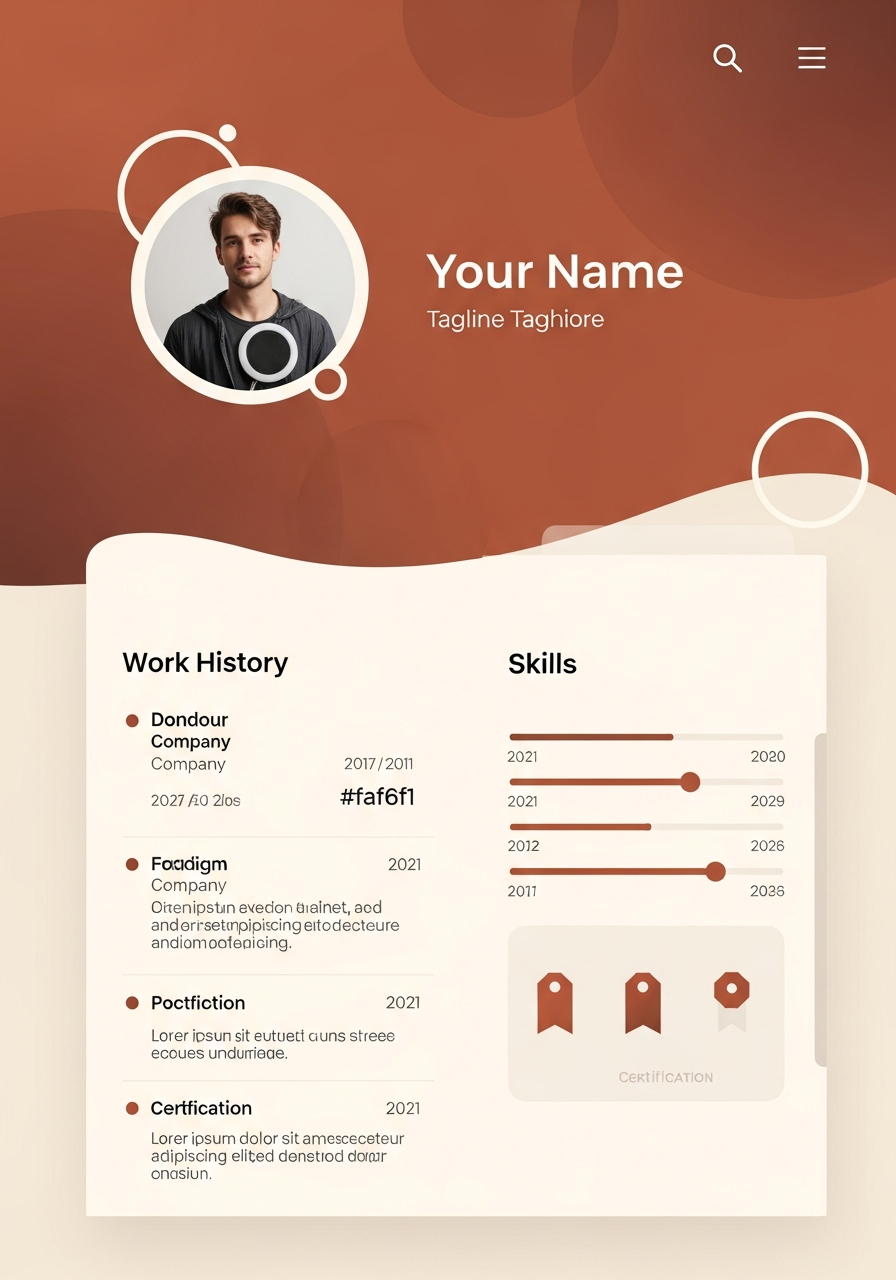
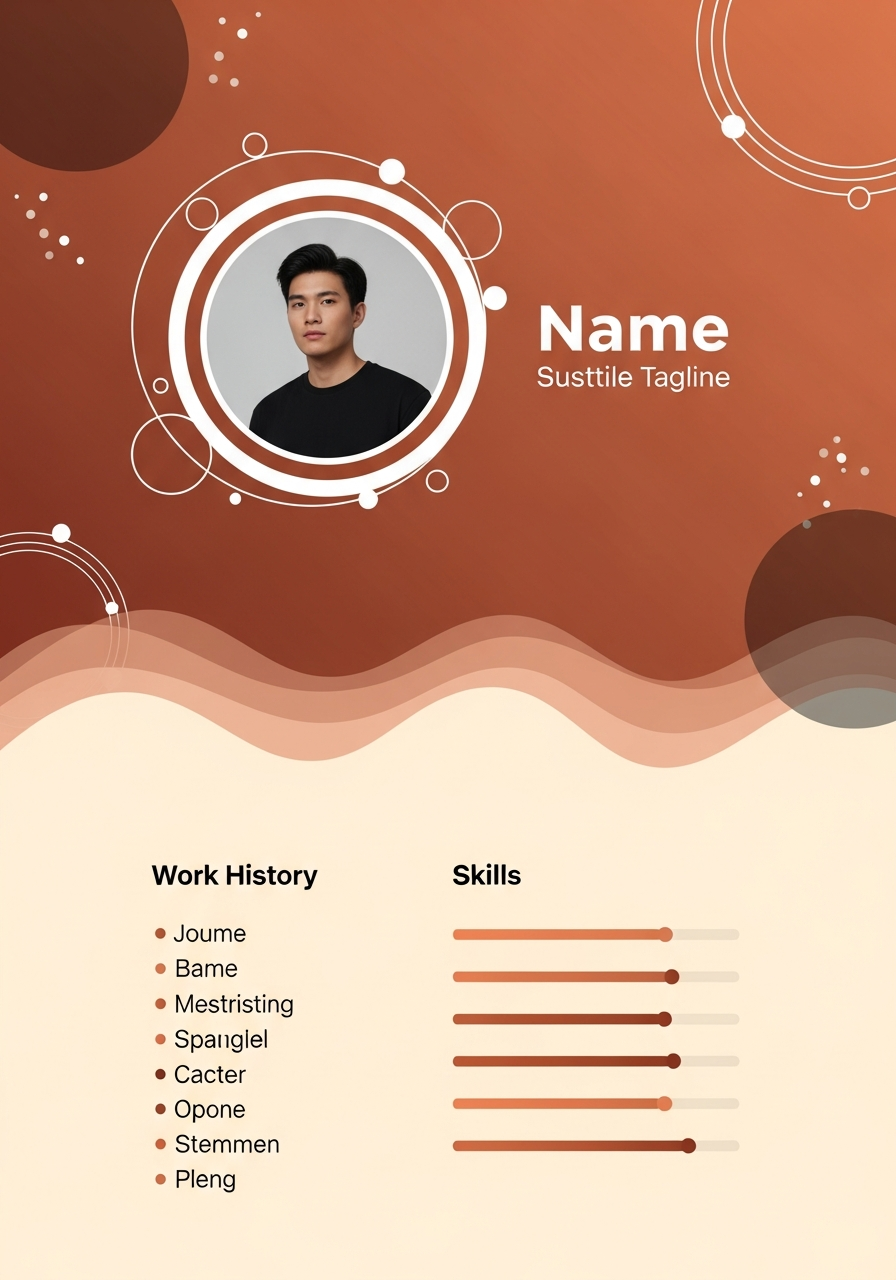
Update professional template design to match screenshot with decorative elements
Refactor CSS for the professional template to include decorative circles, a wavy SVG transition, and adjust hero section styling to match the provided screenshot.

Replit-Commit-Author: Agent
Replit-Commit-Session-Id: 9d698cb2-94c7-4a1a-83f7-568c51fffbb6
Replit-Commit-Checkpoint-Type: full_checkpoint
Replit-Commit-Event-Id: a59b3efe-7ccf-474e-89bb-5ce2eedd76fb
Replit-Commit-Screenshot-Url: https://storage.googleapis.com/screenshot-production-us-central1/1f5fe7d4-1cdf-4b6f-b09e-05f67c314425/9d698cb2-94c7-4a1a-83f7-568c51fffbb6/044WFnH
Replit-Helium-Checkpoint-Created: true

diff --git a/portfolio_app/templates/template-previews/professional.html b/portfolio_app/templates/template-previews/professional.html
@@ -45,32 +45,68 @@
         }
 
         .hero {
-            background: linear-gradient(160deg, #b5563e 0%, #c46a4a 40%, #a84a32 100%);
-            padding: 100px 0 80px;
+            background: linear-gradient(160deg, #b5563e 0%, #c46a4a 35%, #a84a32 70%, #9e4430 100%);
+            min-height: 480px;
             position: relative;
             overflow: hidden;
+            display: flex;
+            align-items: center;
+            padding: 100px 0 140px;
         }
 
-        .hero::before {
-            content: '';
+        .hero-circle-1 {
             position: absolute;
-            bottom: -80px;
-            right: -40px;
-            width: 400px;
-            height: 400px;
+            top: -60px;
+            left: 8%;
+            width: 280px;
+            height: 280px;
             background: rgba(255,255,255,0.06);
             border-radius: 50%;
         }
 
-        .hero::after {
-            content: '';
+        .hero-circle-2 {
             position: absolute;
-            top: -60px;
-            left: 10%;
-            width: 260px;
-            height: 260px;
+            bottom: -100px;
+            right: -50px;
+            width: 350px;
+            height: 350px;
             background: rgba(0,0,0,0.06);
             border-radius: 50%;
+        }
+
+        .hero-circle-3 {
+            position: absolute;
+            top: 30%;
+            right: 12%;
+            width: 70px;
+            height: 70px;
+            border: 3px solid rgba(255,255,255,0.25);
+            border-radius: 50%;
+        }
+
+        .hero-circle-4 {
+            position: absolute;
+            top: 60%;
+            right: 25%;
+            width: 16px;
+            height: 16px;
+            background: rgba(255,255,255,0.3);
+            border-radius: 50%;
+        }
+
+        .hero-wave {
+            position: absolute;
+            bottom: -2px;
+            left: 0;
+            right: 0;
+            height: 100px;
+            z-index: 2;
+        }
+
+        .hero-wave svg {
+            width: 100%;
+            height: 100%;
+            display: block;
         }
 
         .hero-inner {
@@ -81,7 +117,7 @@
             align-items: center;
             gap: 50px;
             position: relative;
-            z-index: 1;
+            z-index: 3;
         }
 
         .hero-photo-wrap {
@@ -89,13 +125,46 @@
             position: relative;
         }
 
-        .hero-photo-ring {
-            width: 180px;
-            height: 180px;
+        .hero-deco-ring {
+            position: absolute;
+            top: -18px;
+            left: -18px;
+            width: calc(100% + 36px);
+            height: calc(100% + 36px);
+            border: 3px solid rgba(255,255,255,0.3);
             border-radius: 50%;
-            border: 4px solid rgba(255,255,255,0.5);
-            padding: 4px;
-            box-shadow: 0 12px 40px rgba(0,0,0,0.2);
+        }
+
+        .hero-deco-dot-1 {
+            position: absolute;
+            top: -8px;
+            left: 50%;
+            transform: translateX(-50%);
+            width: 14px;
+            height: 14px;
+            background: rgba(255,255,255,0.5);
+            border-radius: 50%;
+        }
+
+        .hero-deco-small-ring {
+            position: absolute;
+            bottom: -5px;
+            left: -10px;
+            width: 40px;
+            height: 40px;
+            border: 3px solid rgba(255,255,255,0.3);
+            border-radius: 50%;
+            background: rgba(0,0,0,0.15);
+        }
+
+        .hero-photo-ring {
+            width: 190px;
+            height: 190px;
+            border-radius: 50%;
+            border: 5px solid rgba(255,255,255,0.45);
+            overflow: hidden;
+            box-shadow: 0 15px 45px rgba(0,0,0,0.25);
+            background: rgba(255,255,255,0.08);
         }
 
         .hero-photo-ring img {
@@ -107,21 +176,21 @@
         }
 
         .hero-placeholder {
-            width: 168px;
-            height: 168px;
+            width: 100%;
+            height: 100%;
             border-radius: 50%;
             background: linear-gradient(135deg, #d4856e, #e8a48e);
             display: flex;
             align-items: center;
             justify-content: center;
-            font-size: 3rem;
+            font-size: 3.2rem;
             font-weight: 800;
             color: #fff;
             letter-spacing: 3px;
         }
 
         .hero-info h1 {
-            font-size: 2.4rem;
+            font-size: 2.6rem;
             font-weight: 800;
             color: #fff;
             margin-bottom: 6px;
@@ -130,7 +199,7 @@
 
         .hero-tagline {
             font-size: 1.05rem;
-            color: rgba(255,255,255,0.7);
+            color: rgba(255,255,255,0.65);
             font-weight: 400;
         }
 
@@ -140,57 +209,27 @@
             padding: 0 40px;
         }
 
-        .about-section {
-            padding: 60px 0;
+        .section {
+            padding: 55px 0;
             border-bottom: 1px solid #ede6de;
         }
 
-        .about-row {
-            display: flex;
-            align-items: center;
-            gap: 40px;
-        }
-
-        .about-photo-wrap {
-            width: 200px;
-            height: 200px;
-            flex-shrink: 0;
-            border-radius: 20px;
-            overflow: hidden;
-            background: linear-gradient(135deg, #ede6de, #ddd3c6);
-            display: flex;
-            align-items: center;
-            justify-content: center;
-        }
-
-        .about-photo-wrap img {
-            width: 100%;
-            height: 100%;
-            object-fit: cover;
-        }
-
-        .about-photo-wrap i {
-            font-size: 3rem;
-            color: #c8b8a6;
+        .section:last-child {
+            border-bottom: none;
         }
 
         .section-heading {
-            font-size: 1.5rem;
+            font-size: 1.45rem;
             font-weight: 800;
             color: #3d2e2e;
-            margin-bottom: 16px;
+            margin-bottom: 24px;
             letter-spacing: -0.3px;
         }
 
         .about-text {
             font-size: 0.95rem;
             color: #6b5a5a;
-            line-height: 1.85;
-        }
-
-        .two-col-section {
-            padding: 60px 0;
-            border-bottom: 1px solid #ede6de;
+            line-height: 1.9;
         }
 
         .two-col-grid {
@@ -279,7 +318,7 @@
             display: flex;
             flex-wrap: wrap;
             gap: 10px;
-            margin-top: 10px;
+            margin-top: 20px;
         }
 
         .cert-tag {
@@ -306,9 +345,33 @@
             margin-top: 2px;
         }
 
-        .portfolio-section {
-            padding: 60px 0;
-            border-bottom: 1px solid #ede6de;
+        .about-row {
+            display: flex;
+            align-items: center;
+            gap: 40px;
+        }
+
+        .about-photo-wrap {
+            width: 200px;
+            height: 200px;
+            flex-shrink: 0;
+            border-radius: 20px;
+            overflow: hidden;
+            background: linear-gradient(135deg, #ede6de, #ddd3c6);
+            display: flex;
+            align-items: center;
+            justify-content: center;
+        }
+
+        .about-photo-wrap img {
+            width: 100%;
+            height: 100%;
+            object-fit: cover;
+        }
+
+        .about-photo-wrap i {
+            font-size: 3rem;
+            color: #c8b8a6;
         }
 
         .portfolio-grid {
@@ -385,11 +448,6 @@
             color: #8f3f2a;
         }
 
-        .edu-section {
-            padding: 60px 0;
-            border-bottom: 1px solid #ede6de;
-        }
-
         .edu-grid {
             display: grid;
             grid-template-columns: 1fr 1fr;
@@ -426,10 +484,6 @@
             font-size: 0.72rem;
             color: #a89a8e;
             margin-top: 4px;
-        }
-
-        .contact-section {
-            padding: 60px 0;
         }
 
         .contact-row {
@@ -501,7 +555,7 @@
                 text-align: center;
                 gap: 28px;
             }
-            .hero { padding: 80px 0 60px; }
+            .hero { padding: 80px 0 120px; min-height: auto; }
             .hero-info h1 { font-size: 1.8rem; }
             .content-area { padding: 0 24px; }
             .two-col-grid, .portfolio-grid, .edu-grid { grid-template-columns: 1fr; }
@@ -513,6 +567,7 @@
                 width: 160px;
                 height: 160px;
             }
+            .hero-circle-3, .hero-circle-4 { display: none; }
         }
     </style>
 </head>
@@ -522,8 +577,22 @@
     </a>
 
     <div class="hero">
+        <div class="hero-circle-1"></div>
+        <div class="hero-circle-2"></div>
+        <div class="hero-circle-3"></div>
+        <div class="hero-circle-4"></div>
+
+        <div class="hero-wave">
+            <svg viewBox="0 0 1440 120" preserveAspectRatio="none">
+                <path d="M0,40 C180,100 360,0 540,60 C720,120 900,20 1080,70 C1200,100 1350,40 1440,60 L1440,120 L0,120 Z" fill="#faf6f1"/>
+            </svg>
+        </div>
+
         <div class="hero-inner">
             <div class="hero-photo-wrap">
+                <div class="hero-deco-ring"></div>
+                <div class="hero-deco-dot-1"></div>
+                <div class="hero-deco-small-ring"></div>
                 <div class="hero-photo-ring">
                     {% if profilephoto and profilephoto.profile_photo %}
                         <img src="{{ profilephoto.profile_photo.url }}" alt="{{ user_fullname }}">
@@ -543,7 +612,7 @@
 
     <div class="content-area">
         {% if employment or certifications %}
-        <div class="two-col-section">
+        <div class="section">
             <div class="two-col-grid">
                 {% if employment %}
                 <div>
@@ -590,7 +659,7 @@
         {% endif %}
 
         {% if about and about.about %}
-        <div class="about-section">
+        <div class="section">
             <div class="about-row">
                 <div class="about-photo-wrap">
                     {% if profilephoto and profilephoto.profile_photo %}
@@ -608,7 +677,7 @@
         {% endif %}
 
         {% if portfolios %}
-        <div class="portfolio-section">
+        <div class="section">
             <h2 class="section-heading">Portfolio</h2>
             <div class="portfolio-grid">
                 {% for project in portfolios %}
@@ -634,7 +703,7 @@
         {% endif %}
 
         {% if education %}
-        <div class="edu-section">
+        <div class="section">
             <h2 class="section-heading">Education</h2>
             <div class="edu-grid">
                 {% for edu in education %}
@@ -649,7 +718,7 @@
         {% endif %}
 
         {% if contact %}
-        <div class="contact-section">
+        <div class="section">
             <h2 class="section-heading">Contact</h2>
             <div class="contact-row">
                 {% if contact.email_address %}
